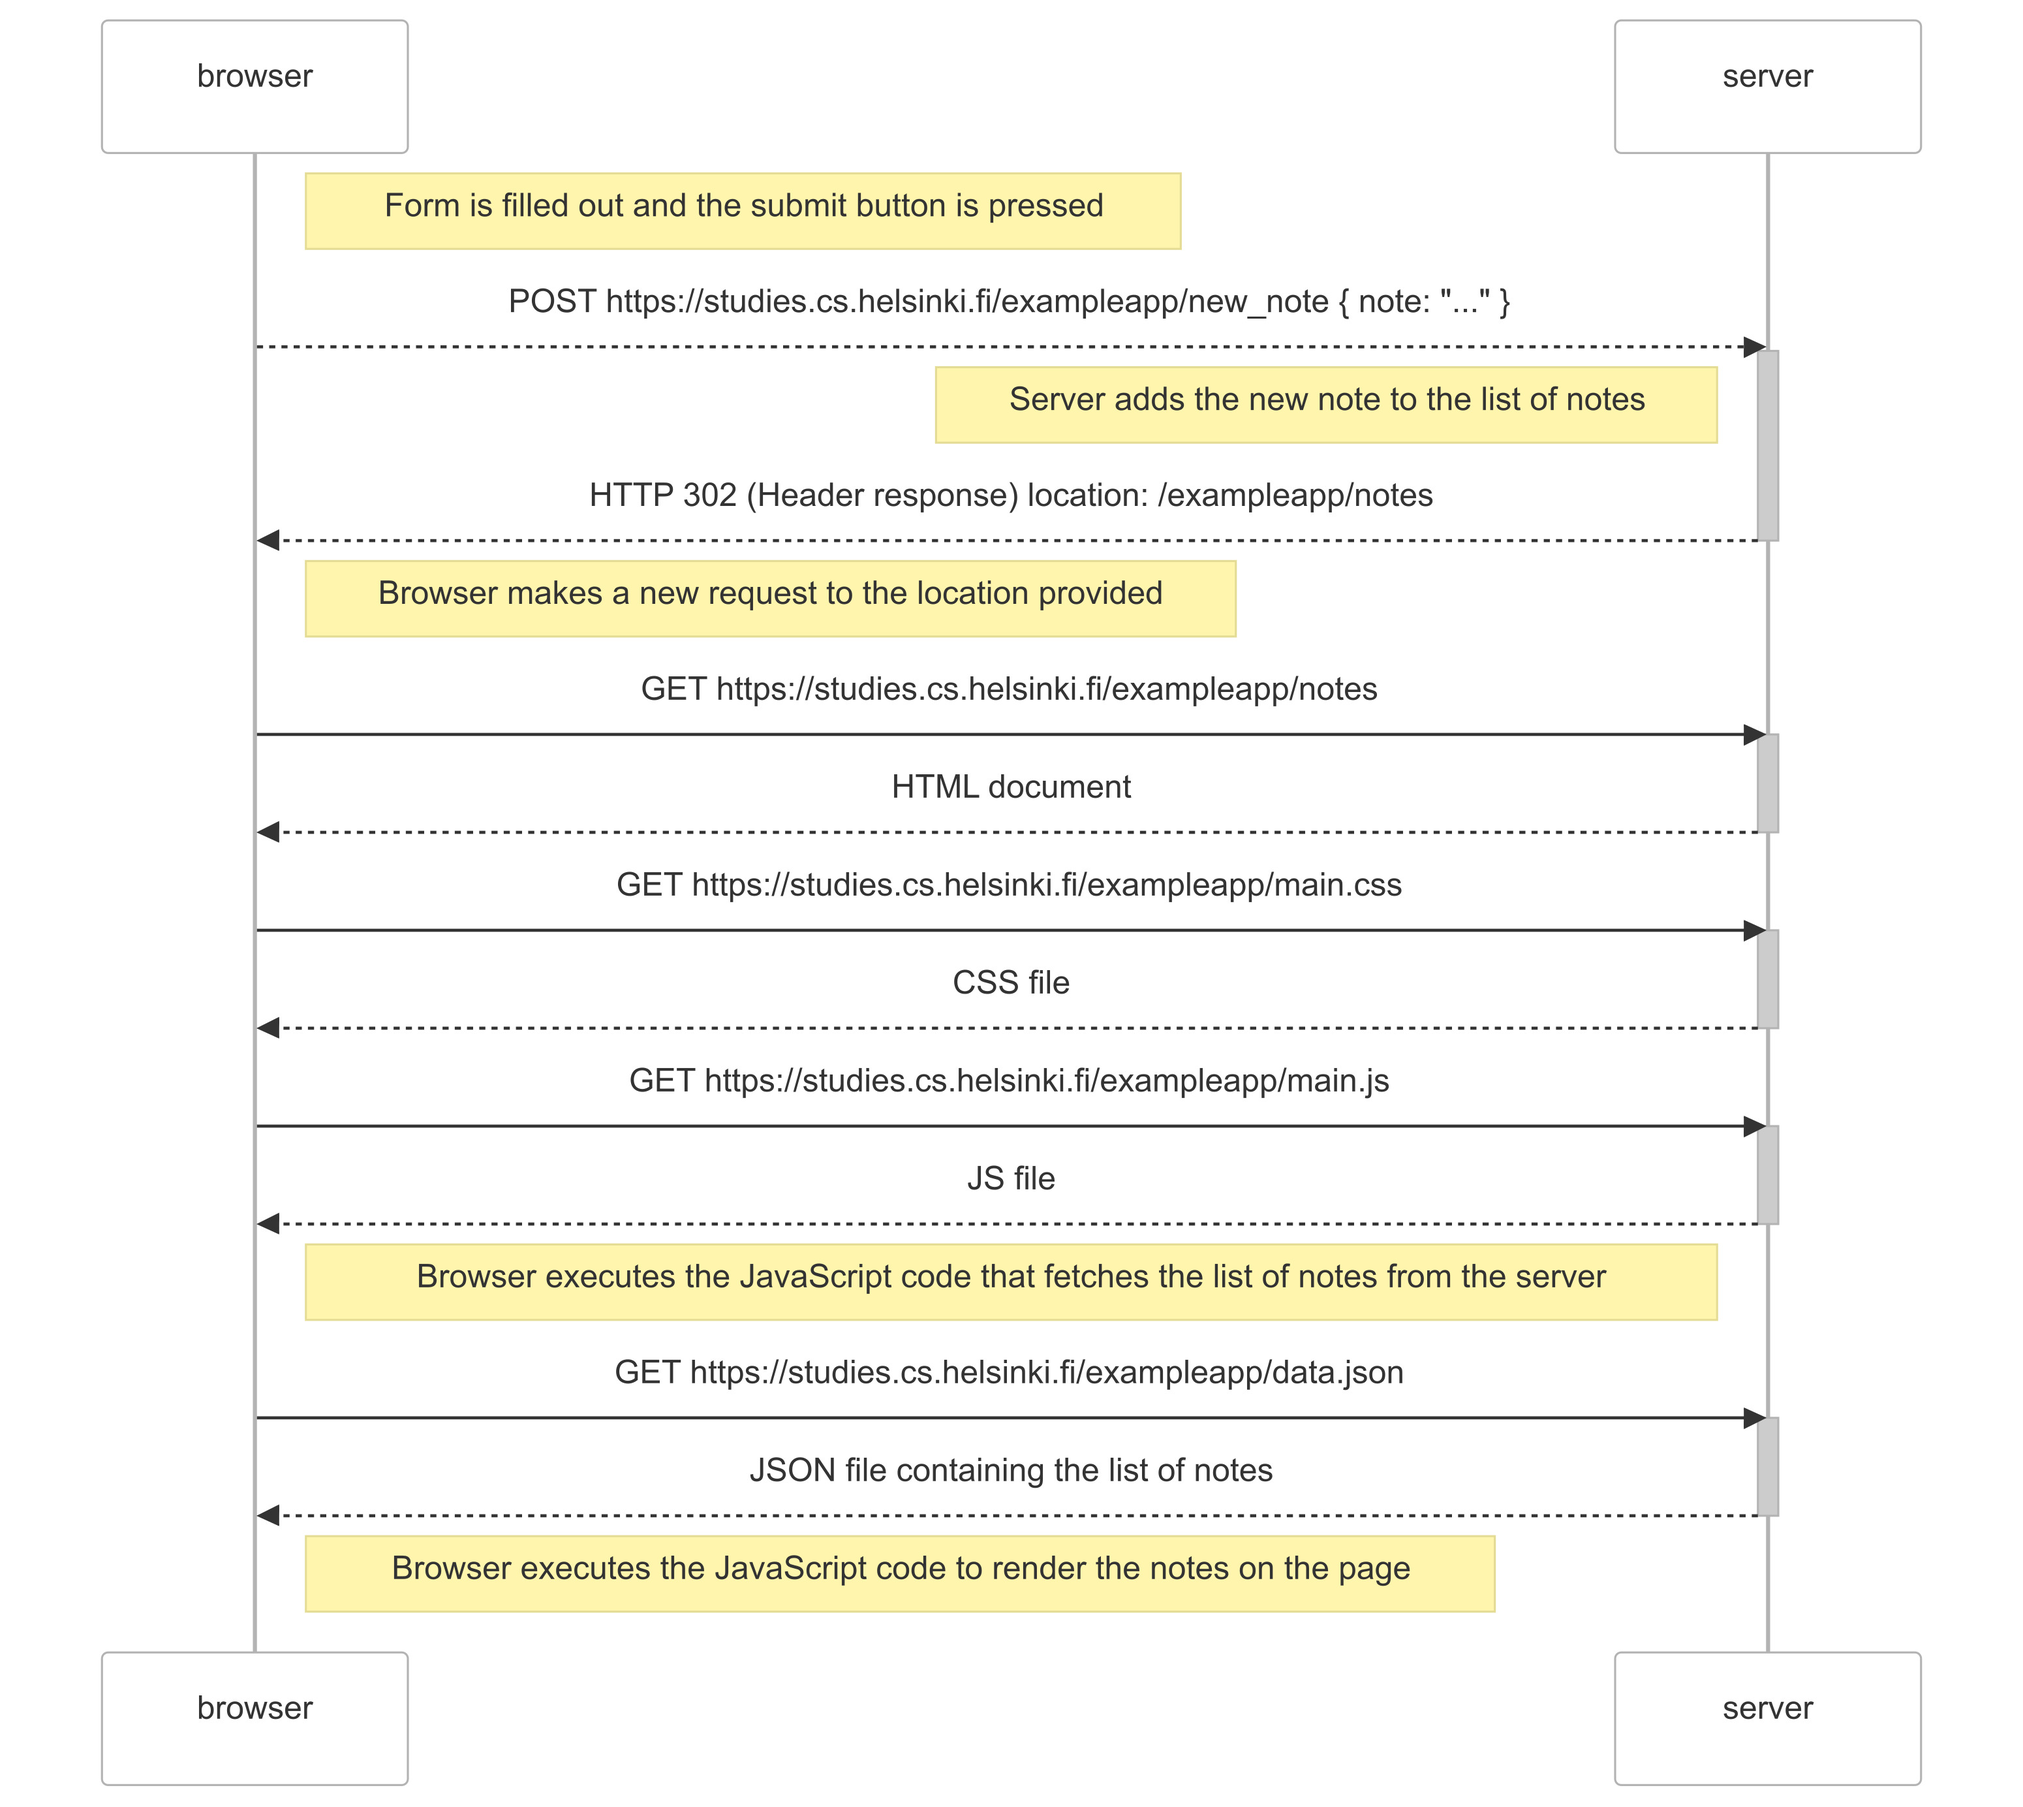
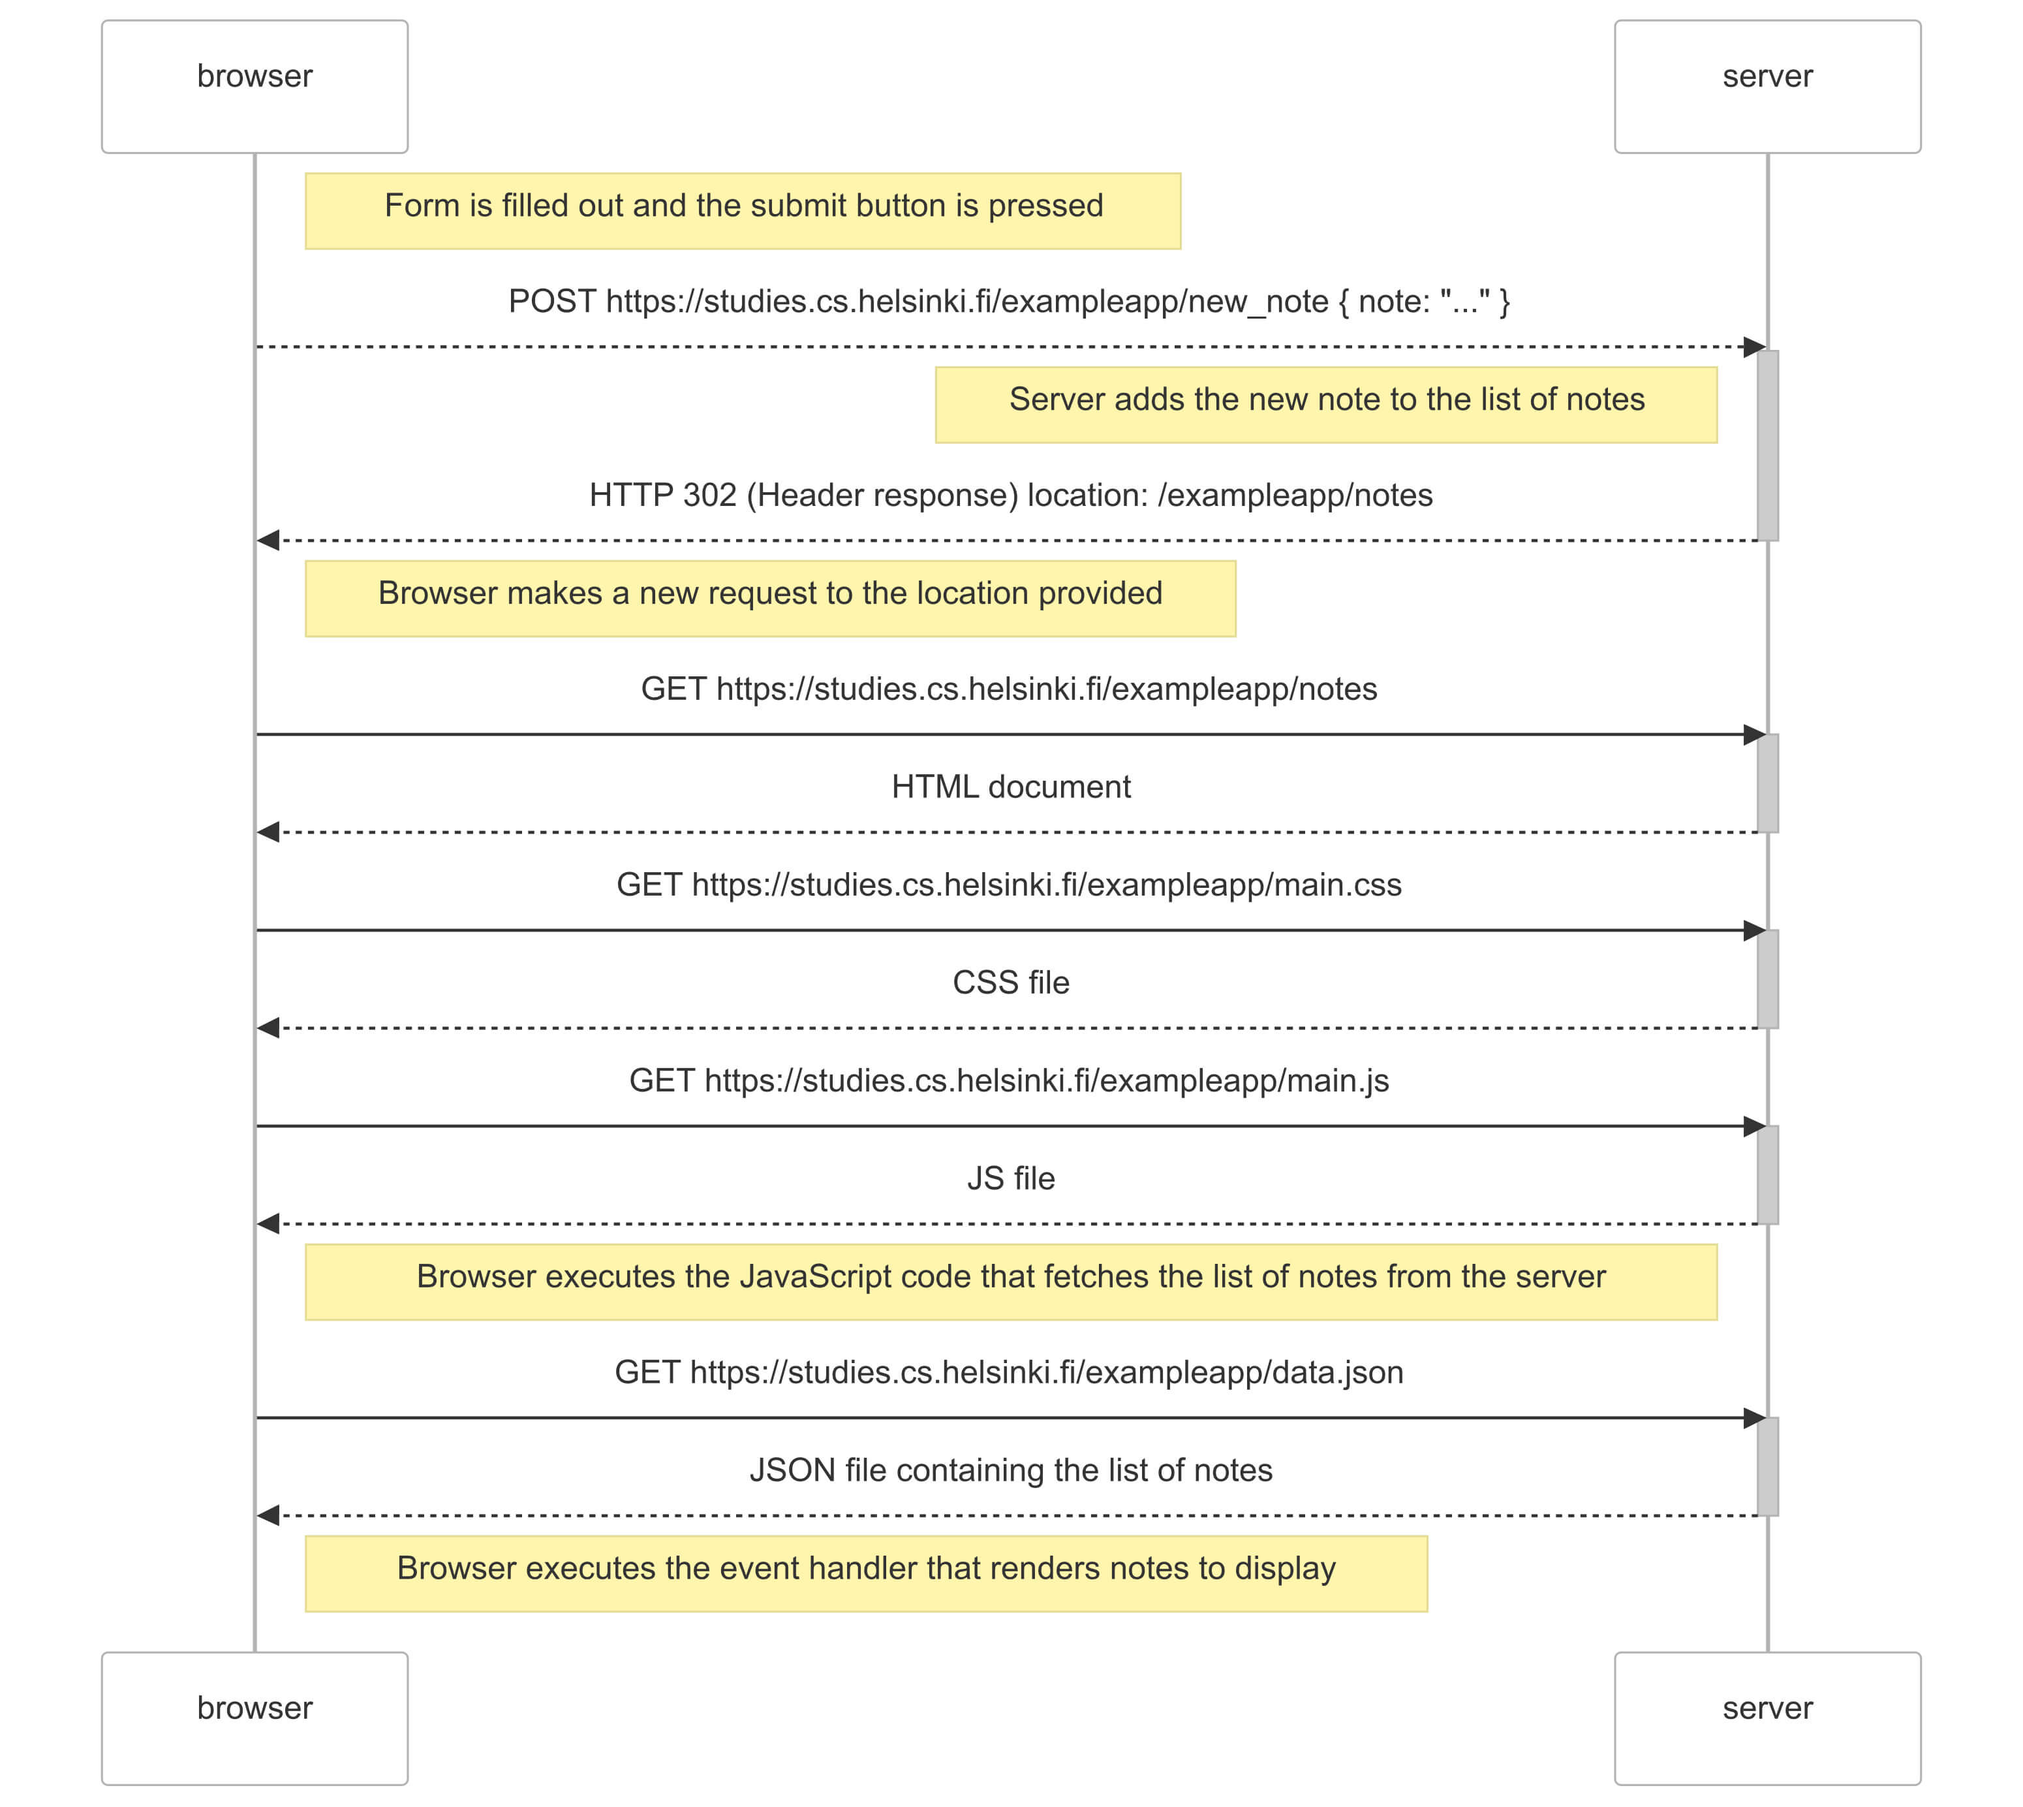
minfix exercise 0.4

Changed region(s): [[0.1858, 0.8389, 0.6503, 0.901], [0.6813, 0.8389, 0.7432, 0.901]]

diff --git a/part0/0.4_NewNoteDiagram/newNoteDiagram.md b/part0/0.4_NewNoteDiagram/newNoteDiagram.md
@@ -39,7 +39,7 @@ sequenceDiagram
     server-->>browser: JSON file containing the list of notes
     deactivate server
 
-    Note right of browser: Browser executes the JavaScript code to render the notes on the page
+    Note right of browser: Browser executes the event handler that renders notes to display
 
 ```
 
